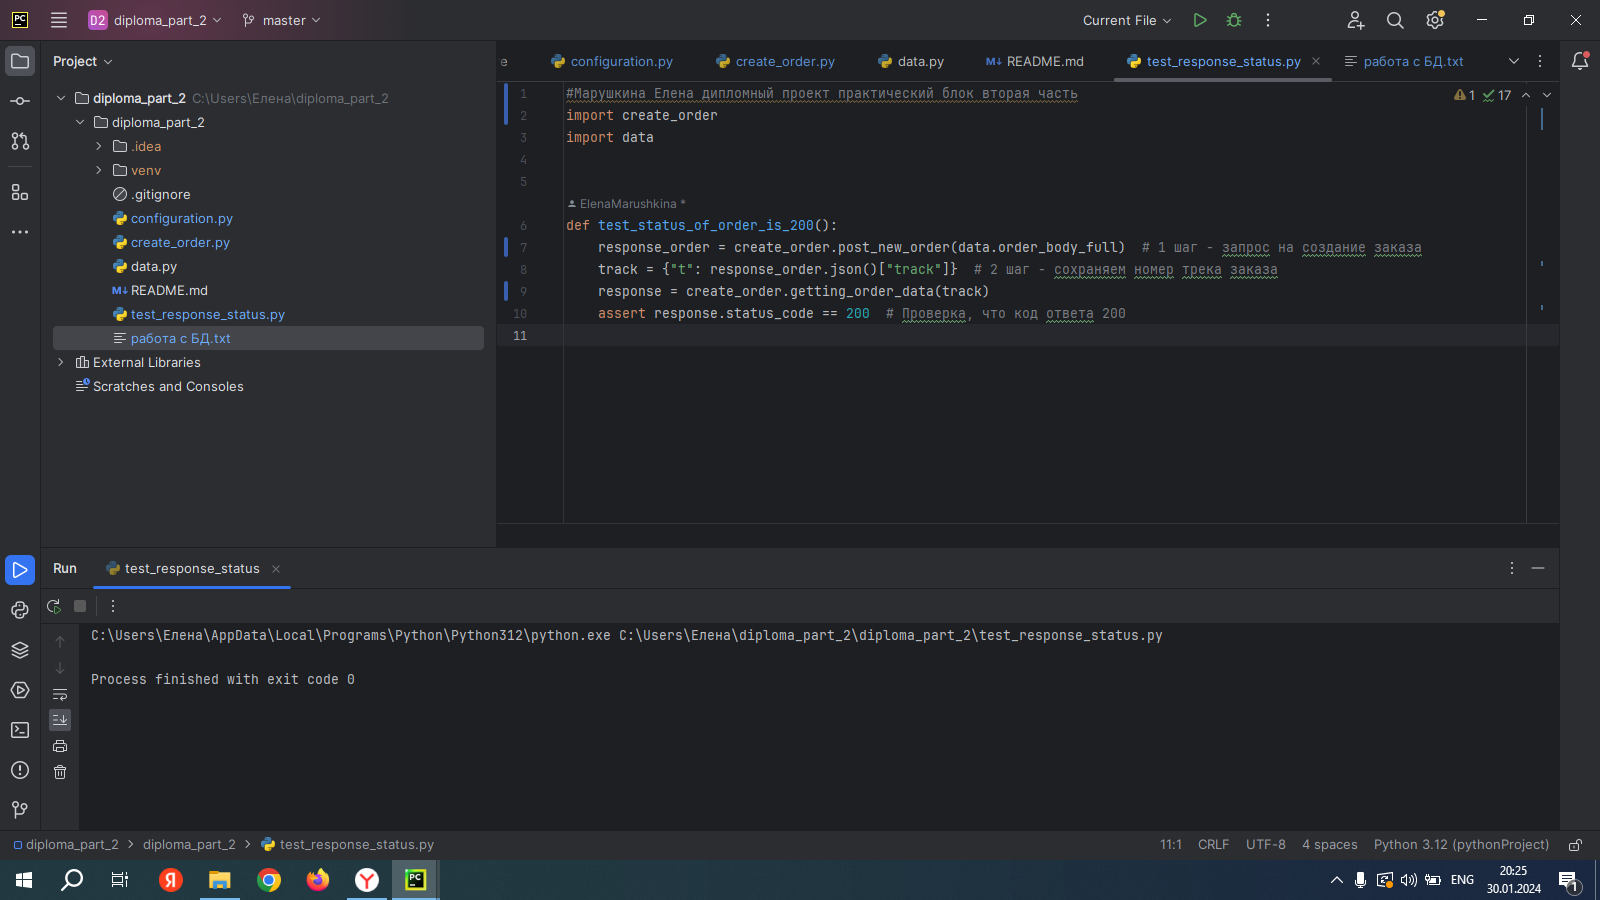
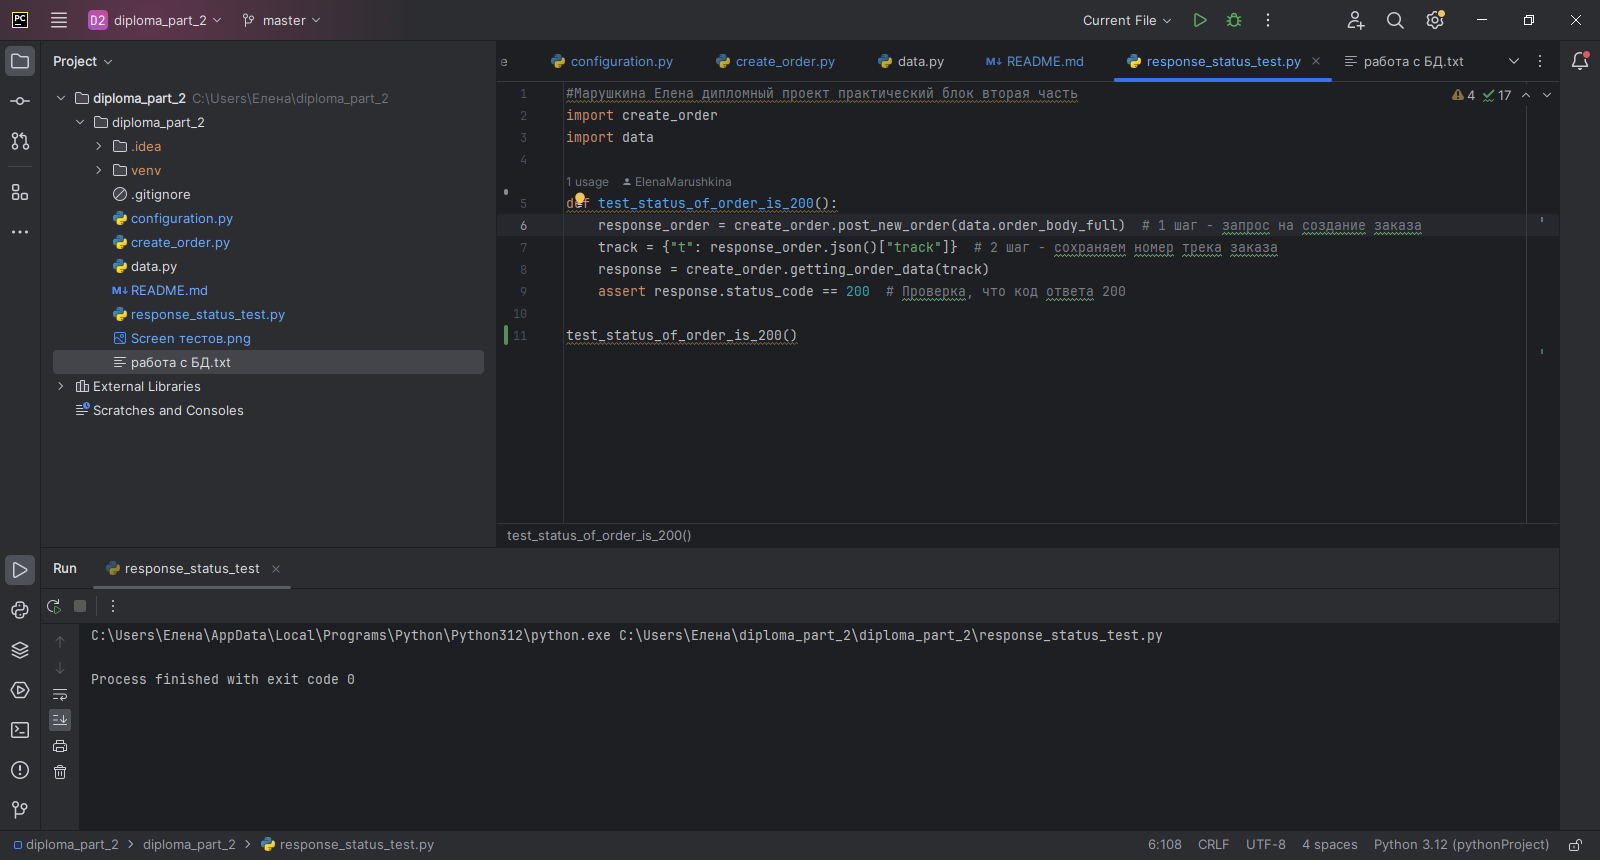
Они попросили добавить скриншот, наверное не доверяют

diff --git a/create_order.py b/create_order.py
@@ -4,8 +4,8 @@ import requests
 
 
 def post_new_order(order_body):  # функция POST-запроса с созданием заказа
-    return requests.post(config.URL + config.ORDER_CREATE_PATH, json=order_body)
+    return requests.post(configuration.URL + configuration.ORDER_CREATE_PATH, json=order_body)
 
 
 def getting_order_data(track):
-    return requests.get(config.URL + config.GET_ORDER_DATA_PATH, params=track)
+    return requests.get(configuration.URL + configuration.GET_ORDER_DATA_PATH, params=track)

diff --git a/response_status_test.py b/response_status_test.py
@@ -2,9 +2,10 @@
 import create_order
 import data
 
-
 def test_status_of_order_is_200():
     response_order = create_order.post_new_order(data.order_body_full)  # 1 шаг - запрос на создание заказа
     track = {"t": response_order.json()["track"]}  # 2 шаг - сохраняем номер трека заказа
     response = create_order.getting_order_data(track)
     assert response.status_code == 200  # Проверка, что код ответа 200
+
+test_status_of_order_is_200()

diff --git a/configuration.py b/configuration.py
@@ -1,3 +1,3 @@
-URL = 'https://237c840e-9108-4152-8bfe-a48e437ef112.serverhub.praktikum-services.ru'
+URL = 'https://24f3d0b2-b0c1-485c-af1d-c6f5c8fb6ee0.serverhub.praktikum-services.ru'
 ORDER_CREATE_PATH = '/api/v1/orders'
 GET_ORDER_DATA_PATH = '/api/v1/orders/track'

diff --git a/README.md b/README.md
@@ -1,2 +1,4 @@
 Репозиторий 2 части дипломной работы Марушкиной Елены
 # Автоматизация получения данных о заказе по треку заказа
+- Для запуска должны быть установлены пакеты requests и pytests
+- Запуск всех тестов осуществляется командой pytest
